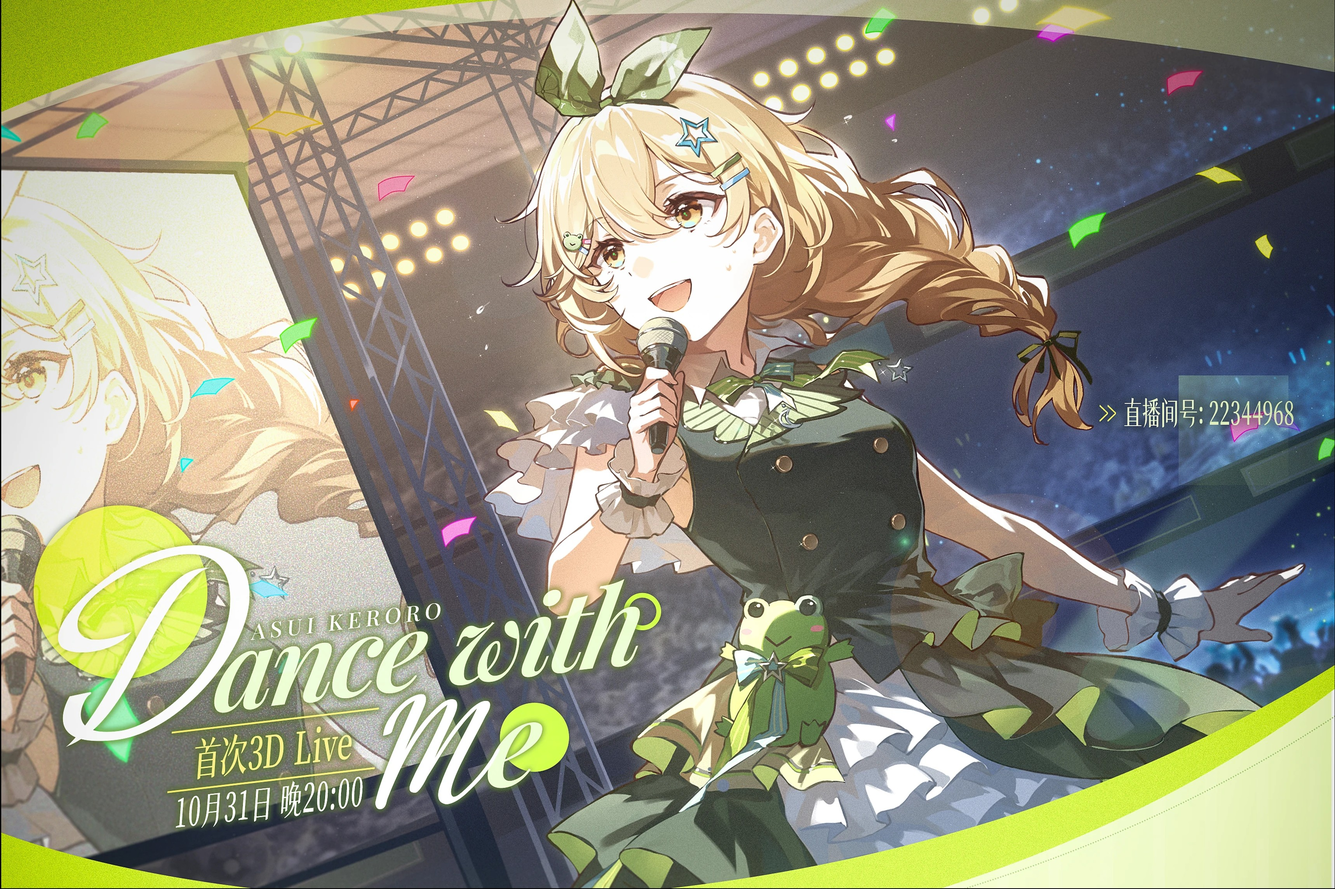
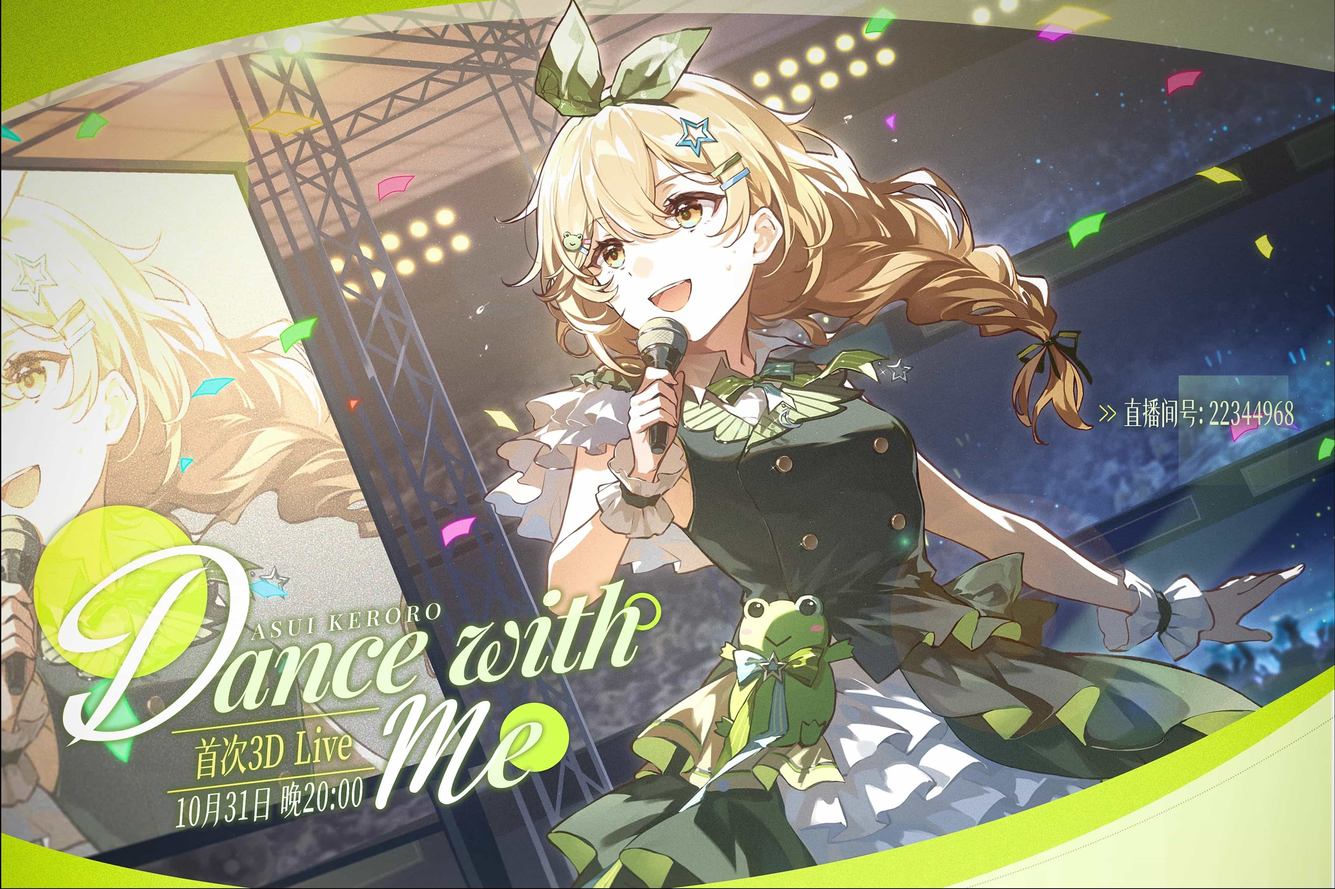
perf: 压缩头像和背景图片，集成自动压缩到构建脚本
- 头像 345KB → 97KB，背景 2.0MB → 480KB
- generate.js 自动检查并压缩超过目标的图片
- 头像目标 100KB，背景目标 500KB

Changed region(s): [[0.9962, 0.8677, 1.0, 0.9297], [0.9962, 0.7438, 1.0, 0.7748]]

diff --git a/scripts/generate.js b/scripts/generate.js
@@ -57,7 +57,7 @@ async function main() {
     console.log('  config.json 已复制');
   }
 
-  // 3. 复制图片资源（转换非jpg格式为jpg）
+  // 3. 复制图片资源（转换非jpg格式为jpg，并压缩头像和背景图）
   console.log('🖼 处理图片资源...');
   const imageFiles = fs.readdirSync(PUBLIC_DIR).filter(f =>
     /\.(jpg|jpeg|png|gif|webp)$/i.test(f)
@@ -66,6 +66,60 @@ async function main() {
   const convertedFiles = [];
   const filesToDelete = [];
 
+  // 压缩目标大小
+  const AVATAR_TARGET = 100 * 1024; // 100KB
+  const BACKGROUND_TARGET = 500 * 1024; // 500KB
+
+  // 压缩图片函数
+  async function compressImage(sharpInstance, targetSize, type) {
+    const metadata = await sharpInstance.metadata();
+    let quality = 90;
+    let buffer;
+    let attempts = 0;
+    const maxAttempts = 15;
+    let minQuality = 10;
+    let maxQuality = 90;
+
+    while (attempts < maxAttempts) {
+      attempts++;
+
+      if (type === 'avatar') {
+        const resizeRatio = Math.min(1, Math.sqrt(targetSize / metadata.width / metadata.height / 3) * 2);
+        const newWidth = Math.round(metadata.width * Math.max(0.3, resizeRatio));
+        buffer = await sharpInstance
+          .clone()
+          .resize(newWidth)
+          .jpeg({ quality, mozjpeg: true })
+          .toBuffer();
+      } else {
+        buffer = await sharpInstance
+          .clone()
+          .jpeg({ quality, mozjpeg: true })
+          .toBuffer();
+      }
+
+      const currentSize = buffer.length;
+      const ratio = currentSize / targetSize;
+
+      if (ratio >= 0.9 && ratio <= 1.1) break;
+
+      if (currentSize > targetSize) {
+        maxQuality = quality;
+        quality = Math.floor((minQuality + quality) / 2);
+      } else {
+        minQuality = quality;
+        quality = Math.floor((quality + maxQuality) / 2);
+      }
+
+      if (quality < 10) {
+        quality = 10;
+        break;
+      }
+    }
+
+    return buffer;
+  }
+
   for (const file of imageFiles) {
     const ext = path.extname(file).toLowerCase();
     const baseName = path.basename(file, ext);
@@ -73,26 +127,53 @@ async function main() {
     const sourcePath = path.join(PUBLIC_DIR, file);
     const targetPath = path.join(SITE_PUBLIC_DIR, targetFile);
 
-    if (ext === '.jpg' || ext === '.jpeg') {
-      // 已经是jpg格式，直接复制
-      fs.copyFileSync(sourcePath, targetPath);
-      console.log(`  ${file} 已复制`);
-      convertedFiles.push(targetFile);
-    } else {
-      // 需要转换格式
-      try {
-        await sharp(sourcePath)
-          .jpeg({ quality: 90 })
-          .toFile(targetPath);
-        console.log(`  ${file} → ${targetFile} (已转换)`);
-        convertedFiles.push(targetFile);
-        filesToDelete.push(file);
-      } catch (error) {
-        console.warn(`  警告: 无法转换 ${file}: ${error.message}`);
-        // 转换失败，直接复制原文件
+    // 判断是否需要压缩
+    const isAvatar = baseName.toLowerCase() === 'avatar';
+    const isBackground = baseName.toLowerCase() === 'background';
+    const needCompress = isAvatar || isBackground;
+
+    try {
+      const sharpInstance = sharp(sourcePath);
+      const originalSize = fs.statSync(sourcePath).size;
+
+      if (needCompress) {
+        const targetSize = isAvatar ? AVATAR_TARGET : BACKGROUND_TARGET;
+        const type = isAvatar ? 'avatar' : 'background';
+
+        if (originalSize <= targetSize) {
+          // 已经足够小，直接复制或转换
+          if (ext === '.jpg' || ext === '.jpeg') {
+            fs.copyFileSync(sourcePath, targetPath);
+            console.log(`  ${file} 已复制 (${(originalSize / 1024).toFixed(0)}KB)`);
+          } else {
+            await sharpInstance.jpeg({ quality: 90 }).toFile(targetPath);
+            console.log(`  ${file} → ${targetFile} (已转换)`);
+            filesToDelete.push(file);
+          }
+        } else {
+          // 需要压缩
+          const buffer = await compressImage(sharpInstance, targetSize, type);
+          fs.writeFileSync(targetPath, buffer);
+          const saved = ((1 - buffer.length / originalSize) * 100).toFixed(0);
+          console.log(`  ${file} ${(originalSize / 1024).toFixed(0)}KB → ${(buffer.length / 1024).toFixed(0)}KB (压缩${saved}%)`);
+          if (ext !== '.jpg' && ext !== '.jpeg') {
+            filesToDelete.push(file);
+          }
+        }
+      } else if (ext === '.jpg' || ext === '.jpeg') {
         fs.copyFileSync(sourcePath, targetPath);
-        convertedFiles.push(file);
+        console.log(`  ${file} 已复制`);
+      } else {
+        await sharpInstance.jpeg({ quality: 90 }).toFile(targetPath);
+        console.log(`  ${file} → ${targetFile} (已转换)`);
+        filesToDelete.push(file);
       }
+
+      convertedFiles.push(targetFile);
+    } catch (error) {
+      console.warn(`  警告: 无法处理 ${file}: ${error.message}`);
+      fs.copyFileSync(sourcePath, targetPath);
+      convertedFiles.push(file);
     }
   }
 
@@ -230,6 +311,64 @@ async function main() {
       if (fs.existsSync(sourcePath)) {
         fs.copyFileSync(sourcePath, path.join(DIST_DIR, file));
         console.log(`  ${file} 已复制`);
+      }
+    }
+
+    // 压缩 docs 目录下的头像和背景图片（确保不超过目标大小）
+    console.log('\n🗜 检查图片大小...');
+    const imagesToCheck = [
+      { name: config.avatar, target: AVATAR_TARGET, type: 'avatar' },
+      { name: config.background, target: BACKGROUND_TARGET, type: 'background' }
+    ].filter(img => img.name);
+
+    for (const img of imagesToCheck) {
+      const filePath = path.join(DIST_DIR, img.name);
+      if (!fs.existsSync(filePath)) continue;
+
+      const currentSize = fs.statSync(filePath).size;
+      if (currentSize <= img.target) {
+        console.log(`  ${img.name} ${(currentSize / 1024).toFixed(0)}KB ✓`);
+        continue;
+      }
+
+      // 需要压缩
+      const sharpInstance = sharp(filePath);
+      const metadata = await sharpInstance.metadata();
+      let quality = 90;
+      let buffer;
+      let minQuality = 10;
+      let maxQuality = 90;
+
+      for (let i = 0; i < 15; i++) {
+        if (img.type === 'avatar') {
+          const resizeRatio = Math.min(1, Math.sqrt(img.target / currentSize) * 1.5);
+          const newWidth = Math.round(metadata.width * Math.max(0.3, resizeRatio));
+          buffer = await sharp(filePath).resize(newWidth).jpeg({ quality, mozjpeg: true }).toBuffer();
+        } else {
+          buffer = await sharp(filePath).jpeg({ quality, mozjpeg: true }).toBuffer();
+        }
+
+        const ratio = buffer.length / img.target;
+        if (ratio >= 0.9 && ratio <= 1.1) break;
+
+        if (buffer.length > img.target) {
+          maxQuality = quality;
+          quality = Math.floor((minQuality + quality) / 2);
+        } else {
+          minQuality = quality;
+          quality = Math.floor((quality + maxQuality) / 2);
+        }
+        if (quality < 10) { quality = 10; break; }
+      }
+
+      fs.writeFileSync(filePath, buffer);
+      const saved = ((1 - buffer.length / currentSize) * 100).toFixed(0);
+      console.log(`  ${img.name} ${(currentSize / 1024).toFixed(0)}KB → ${(buffer.length / 1024).toFixed(0)}KB (压缩${saved}%)`);
+
+      // 同步压缩 site/public 中的源文件
+      const sourcePath = path.join(SITE_PUBLIC_DIR, img.name);
+      if (fs.existsSync(sourcePath)) {
+        fs.writeFileSync(sourcePath, buffer);
       }
     }
 
